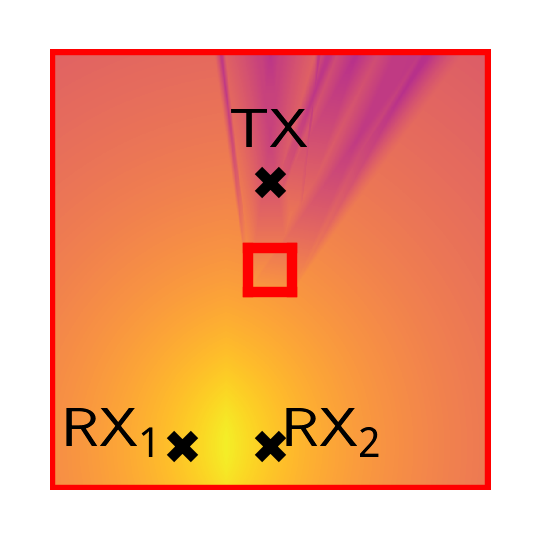
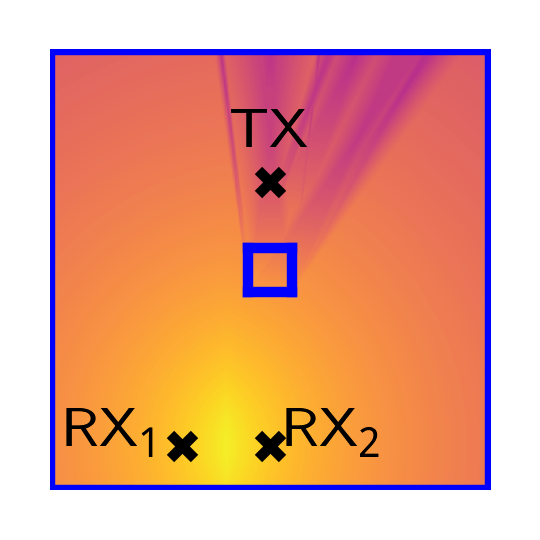
fixes

Changed region(s): [[0.0889, 0.0889, 0.9185, 0.9185], [0.4444, 0.4444, 0.563, 0.563]]

diff --git a/_slides/2026-05-05-private-defense/main.py b/_slides/2026-05-05-private-defense/main.py
@@ -123,7 +123,7 @@ TEXT_TO_TEX_FACTOR = 1.5
 def bullets(
     items: list[str],
     font_size: int = BODY_SIZE,
-    width: float = 75,
+    width: float = 70,
     color: m.ManimColor = TEXT,
     use_tex: bool = False,
 ) -> m.VGroup:
@@ -1079,7 +1079,7 @@ class Main(Slide, m.MovingCameraScene):
                 r"As $\alpha\to\infty$, recover the original hard model.",
                 r"Finite $\alpha$ gives non-zero gradients around discontinuities.",
             ],
-            width=42,
+            width=34,
             use_tex=True,
         )
         smath_bullets.next_to(smath_header, m.DOWN, buff=0.65).to_edge(
@@ -1100,7 +1100,7 @@ class Main(Slide, m.MovingCameraScene):
                 font_size=34,
             ),
         ).arrange(m.DOWN, aligned_edge=m.LEFT, buff=0.35)
-        smath_eqs.next_to(smath_header, m.DOWN, buff=0.75).to_edge(m.RIGHT, buff=0.65)
+        smath_eqs.next_to(smath_header, m.DOWN, buff=0.75).to_edge(m.RIGHT, buff=0.8)
 
         self.next_slide(notes="Introduce the smoothing formulation.")
         self.play(
@@ -1115,6 +1115,52 @@ class Main(Slide, m.MovingCameraScene):
 
         prev_slide_content = [smath_header, smath_bullets, smath_eqs]
 
+        # Slide: Example objective function
+        obj_header = title_box("Smoothing: Example Objective")
+        obj_bullets = bullets(
+            [
+                r"Example objective: maximize power over a target area.",
+                r"One formulation is to optimize a worst-user criterion.",
+                r"Smoothing makes gradients usable for this optimization problem.",
+            ],
+            width=34,
+            use_tex=True,
+        )
+        obj_bullets.next_to(obj_header, m.DOWN, buff=0.65).to_edge(m.LEFT, buff=0.75)
+
+        obj_eq = m.MathTex(
+            r"\mathcal{F}(x,y)=\min\left(P_{\mathrm{RX}_0}(x,y),P_{\mathrm{RX}_1}(x,y)\right)",
+            font_size=34,
+        )
+        # The original single image was split into three pieces; load them
+        img_paths = [
+            "images/opti_problem_no_smoothing.png",
+            "images/opti_problem_small_smoothing.png",
+            "images/opti_problem_large_smoothing.png",
+        ]
+        # stack images vertically; put the large-smoothing image at the bottom
+        img_mobs = [
+            m.ImageMobject(img_paths[0]).set_height(1.6),
+            m.ImageMobject(img_paths[1]).set_height(1.6),
+            m.ImageMobject(img_paths[2]).set_height(2.4),
+        ]
+        imgs_group = m.Group(*img_mobs).arrange(m.DOWN, buff=0.12)
+        obj_vis = m.Group(obj_eq, imgs_group).arrange(m.DOWN, buff=0.25)
+        obj_vis.next_to(obj_header, m.DOWN, buff=0.65).to_edge(m.RIGHT, buff=0.75)
+
+        self.next_slide(notes="Introduce a concrete optimization objective and setup.")
+        self.play(
+            *next_meta(),
+            self.wipe(prev_slide_content, [obj_header], return_animation=True),
+        )
+        self.next_slide(notes="Objective equation and optimization setup image.")
+        self.play(m.FadeIn(obj_vis, shift=0.15 * m.LEFT))
+        for b in obj_bullets:
+            self.next_slide(notes="Objective-function bullet.")
+            self.play(m.FadeIn(b, shift=0.15 * m.LEFT))
+
+        prev_slide_content = [obj_header, obj_bullets, obj_vis]
+
         # Slide: Smoothing Results (power map + optimization video)
         sres_header = title_box("Smoothing: Key Results")
 
@@ -1125,7 +1171,7 @@ class Main(Slide, m.MovingCameraScene):
                 "Optimization with smoothing converges more reliably in practice.",
                 "Implemented in DiffeRT2d and then extended to DiffeRT.",
             ],
-            width=42,
+            width=34,
         )
         sres_bullets.next_to(sres_header, m.DOWN, buff=0.65).to_edge(m.LEFT, buff=0.75)
 
@@ -1189,9 +1235,15 @@ class Main(Slide, m.MovingCameraScene):
             r"\mathcal{F}(x,y)=\min\left(P_{\mathrm{RX}_0}(x,y),P_{\mathrm{RX}_1}(x,y)\right)",
             font_size=34,
         )
-        obj_img = m.ImageMobject("images/opti_problem.png")
-        obj_img.set_height(2.4)
-        obj_vis = m.Group(obj_eq, obj_img).arrange(m.DOWN, buff=0.25)
+        # The original single image was split into three pieces; load them
+        img_paths = [
+            "images/opti_problem_no_smoothing.png",
+            "images/opti_problem_small_smoothing.png",
+            "images/opti_problem_large_smoothing.png",
+        ]
+        img_mobs = [m.ImageMobject(p).set_height(1.8) for p in img_paths]
+        imgs_group = m.Group(*img_mobs).arrange(m.RIGHT, buff=0.12)
+        obj_vis = m.Group(obj_eq, imgs_group).arrange(m.DOWN, buff=0.25)
         obj_vis.next_to(obj_header, m.DOWN, buff=0.65).to_edge(m.RIGHT, buff=0.75)
 
         self.next_slide(notes="Introduce a concrete optimization objective and setup.")
@@ -1257,6 +1309,50 @@ class Main(Slide, m.MovingCameraScene):
             self.play(m.FadeIn(b, shift=0.15 * m.LEFT))
 
         prev_slide_content = [impact_header, impact_bullets, differt2d_card]
+
+        # Slide: Smoothing applied to 3D objects (discussion)
+        smooth3d_header = title_box("Smoothing: 3D Application & Discussion")
+
+        smooth3d_bullets = bullets(
+            [
+                "Can extend smoothing to 3D geometry intersection tests (Möller–Trumbore).",
+                "Pros: provides smooth gradients for surface intersection, helps optimization.",
+                "Cons: increased cost per intersection; may blur sharp geometric features.",
+                "Design choices: where to smooth, per-triangle vs. per-mesh, and alpha scheduling.",
+            ],
+            width=34,
+        )
+        smooth3d_bullets.next_to(smooth3d_header, m.DOWN, buff=0.65).to_edge(
+            m.LEFT, buff=0.75
+        )
+
+        # SVG showing a smoothed Möller–Trumbore visualization
+        try:
+            mt_svg = m.SVGMobject("images/moller-trumbore-smoothed.svg")
+        except Exception:
+            mt_svg = m.ImageMobject("images/moller-trumbore-smoothed.svg")
+        mt_svg.set_height(3.2)
+        mt_caption = m.Text(
+            "Möller–Trumbore: smoothed intersection",
+            font_size=16,
+            color=MUTED,
+        ).next_to(mt_svg, m.DOWN, buff=0.12)
+        mt_group = m.Group(mt_svg, mt_caption)
+        mt_group.next_to(smooth3d_header, m.DOWN, buff=0.65).to_edge(m.RIGHT, buff=0.75)
+
+        self.next_slide(notes="Discuss applying smoothing to 3D intersections and trade-offs.")
+        self.play(
+            *next_meta(),
+            self.wipe(prev_slide_content, [smooth3d_header], return_animation=True),
+        )
+
+        self.next_slide(notes="Show Möller–Trumbore smoothed visualization and discuss pros/cons.")
+        self.play(m.FadeIn(mt_group, shift=0.15 * m.LEFT))
+        for b in smooth3d_bullets:
+            self.next_slide(notes="Smoothing 3D discussion bullet.")
+            self.play(m.FadeIn(b, shift=0.15 * m.LEFT))
+
+        prev_slide_content = [smooth3d_header, smooth3d_bullets, mt_group]
 
         # Slide: Motivation for ML approach
         ml_mot_header = title_box("Why Machine Learning for Path Sampling?")

diff --git a/_slides/2026-05-05-private-defense/generate-opti-problem.py b/_slides/2026-05-05-private-defense/generate-opti-problem.py
@@ -103,7 +103,7 @@ for filename, approx, alpha in variants:
 
     scene.plot(
         ax,
-        objects_kwargs=dict(color="red"),
+        objects_kwargs=dict(color="blue"),
         transmitters_kwargs=transmitter_kwargs,
         receivers=False,
     )

diff --git a/_slides/2026-05-05-private-defense/generate-transmitter-optimization-illustrations.py b/_slides/2026-05-05-private-defense/generate-transmitter-optimization-illustrations.py
@@ -122,7 +122,7 @@ for frame, alpha in enumerate(alphas):
 
     local_scene.plot(
         ax,
-        objects_kwargs=dict(color="red"),
+        objects_kwargs=dict(color="blue"),
         transmitters_kwargs=transmitter_kwargs,
         receivers=False,
     )

diff --git a/_posts/2025-05-27-icmlcn.md b/_posts/2025-05-27-icmlcn.md
@@ -24,7 +24,7 @@ description: Posters and 3-minute thesis video presented at ICMLCN 2025!
 
 At ICMLCN 2025, I presented our paper
 *Towards Generative Ray Path Sampling for Faster Point-to-Point Ray Tracing*
-{% cite Eert2505:Comparing %}. This work is the result of a collaboration with Professors Vittorio Degli-Esposti and Enrico Maria Vitucci's laboratory
+{% cite Eert2505:Towards %}. This work is the result of a collaboration with Professors Vittorio Degli-Esposti and Enrico Maria Vitucci's laboratory
 from University of Bologna, where I worked for 4 months in late 2024.
 In this work, we introduce a novel Machine Learning approach to Ray Tracing:
 sampling path candidates using a generative model. The core motivation is to avoid the